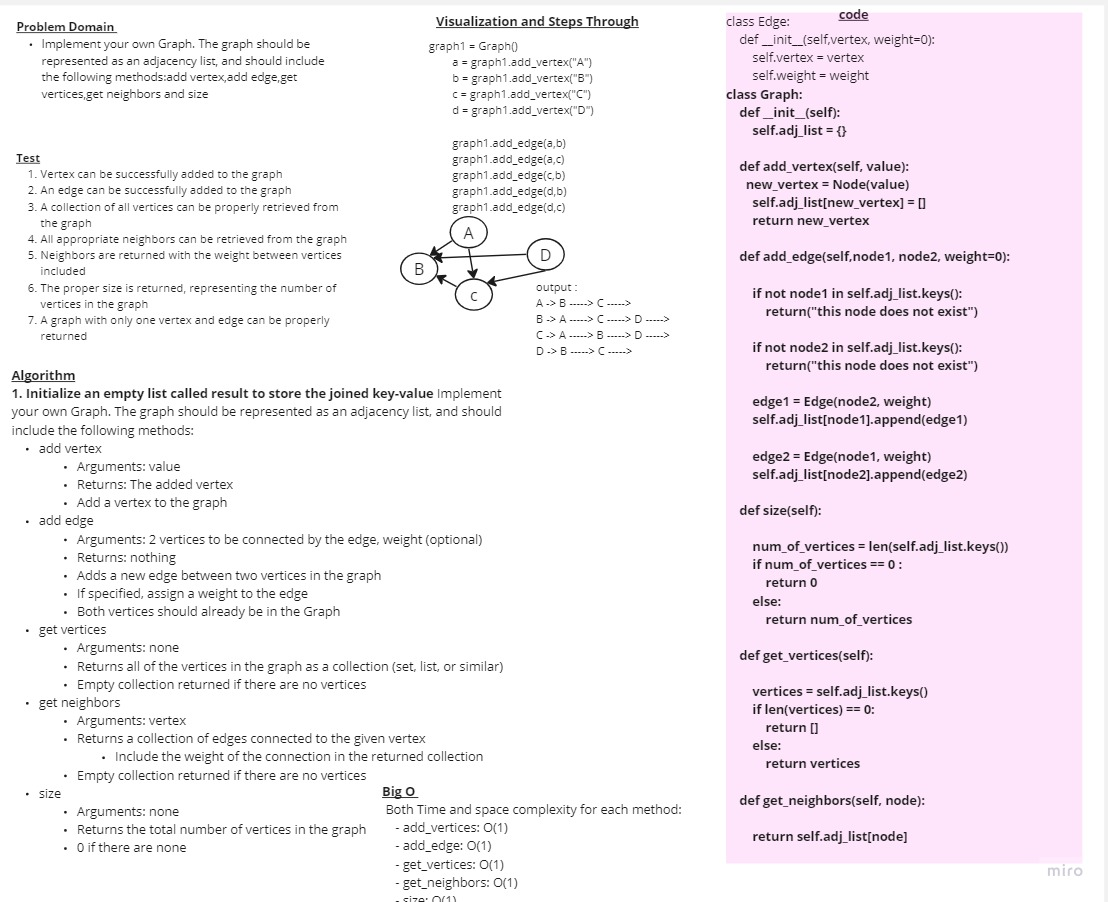
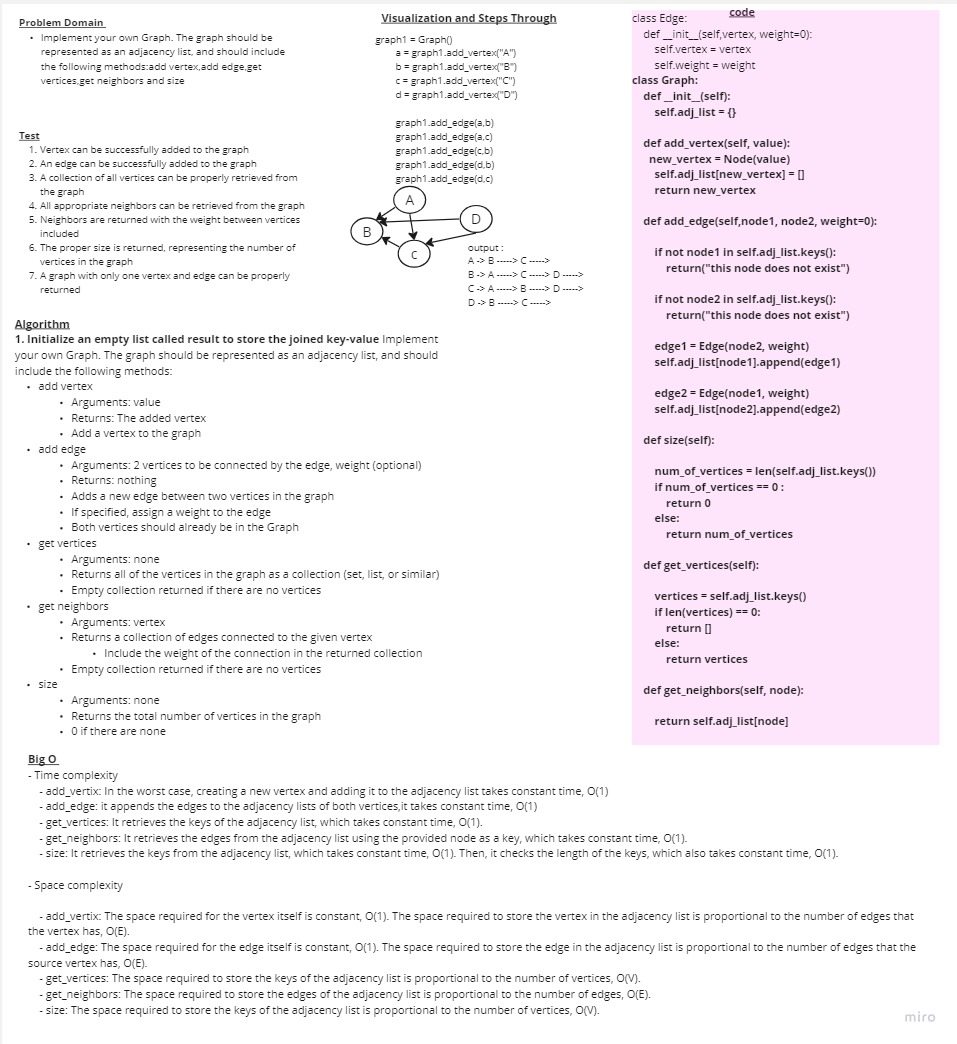
edit the big o

Changed region(s): [[0.0, 0.0, 1.0, 1.0]]

diff --git a/graphs/README.md b/graphs/README.md
@@ -5,13 +5,21 @@
 ![whiteboard](/Graph.jpg)
 
 ### Approach & Efficiency
-- Both Time and space complexity for each method:
+- Time complexity 
 
-    - add_vertices: O(1)
-    - add_edge: O(1)
-    - get_vertices: O(1)
-    - get_neighbors: O(1)
-    - size: O(1)
+    - add_vertix: In the worst case, creating a new vertex and adding it to the adjacency list takes constant time, O(1)
+    - add_edge: it appends the edges to the adjacency lists of both vertices,it takes constant time, O(1)
+    - get_vertices: It retrieves the keys of the adjacency list, which takes constant time, O(1).
+    - get_neighbors: It retrieves the edges from the adjacency list using the provided node as a key, which takes constant time, O(1).
+    - size: It retrieves the keys from the adjacency list, which takes constant time, O(1). Then, it checks the length of the keys, which also takes constant time, O(1).
+
+- Space complexity
+
+    - add_vertix: The space required for the vertex itself is constant, O(1). The space required to store the vertex in the adjacency list is proportional to the number of edges that the vertex has, O(E).
+    - add_edge: The space required for the edge itself is constant, O(1). The space required to store the edge in the adjacency list is proportional to the number of edges that the source vertex has, O(E).
+    - get_vertices: The space required to store the keys of the adjacency list is proportional to the number of vertices, O(V).
+    - get_neighbors: The space required to store the edges of the adjacency list is proportional to the number of edges, O(E).
+    - size: The space required to store the keys of the adjacency list is proportional to the number of vertices, O(V).
 
 
 ### Solution
